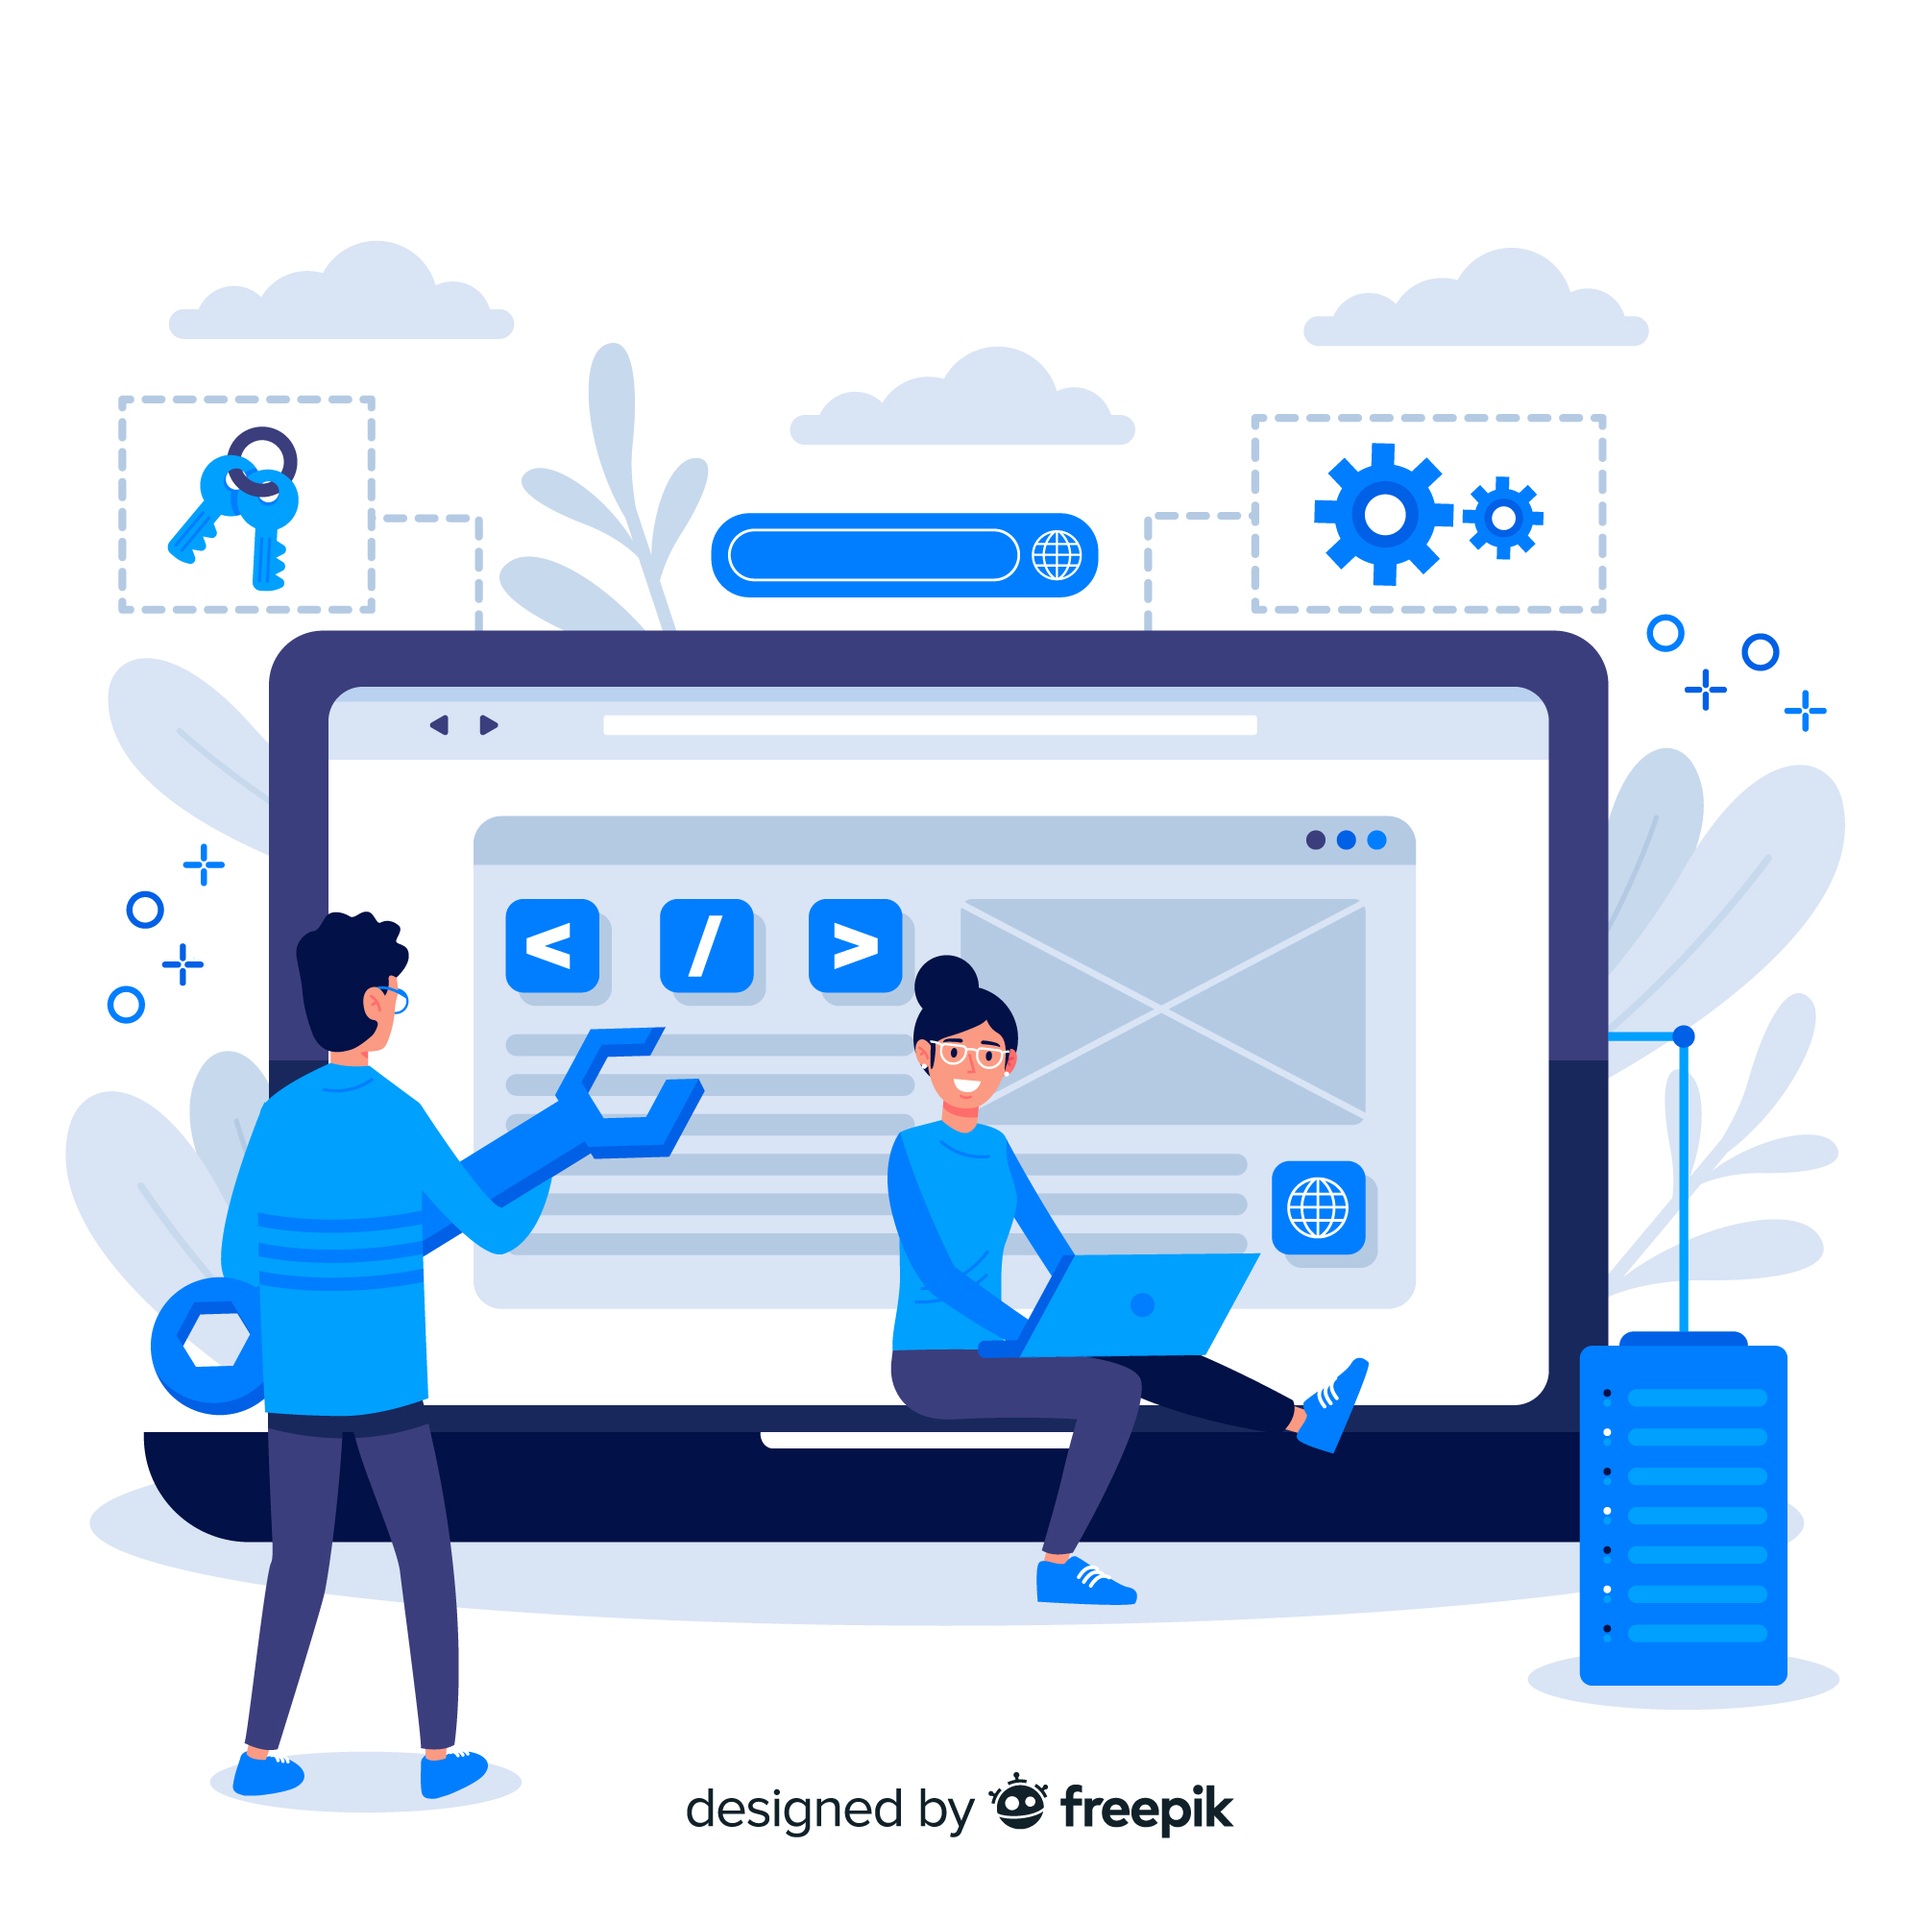
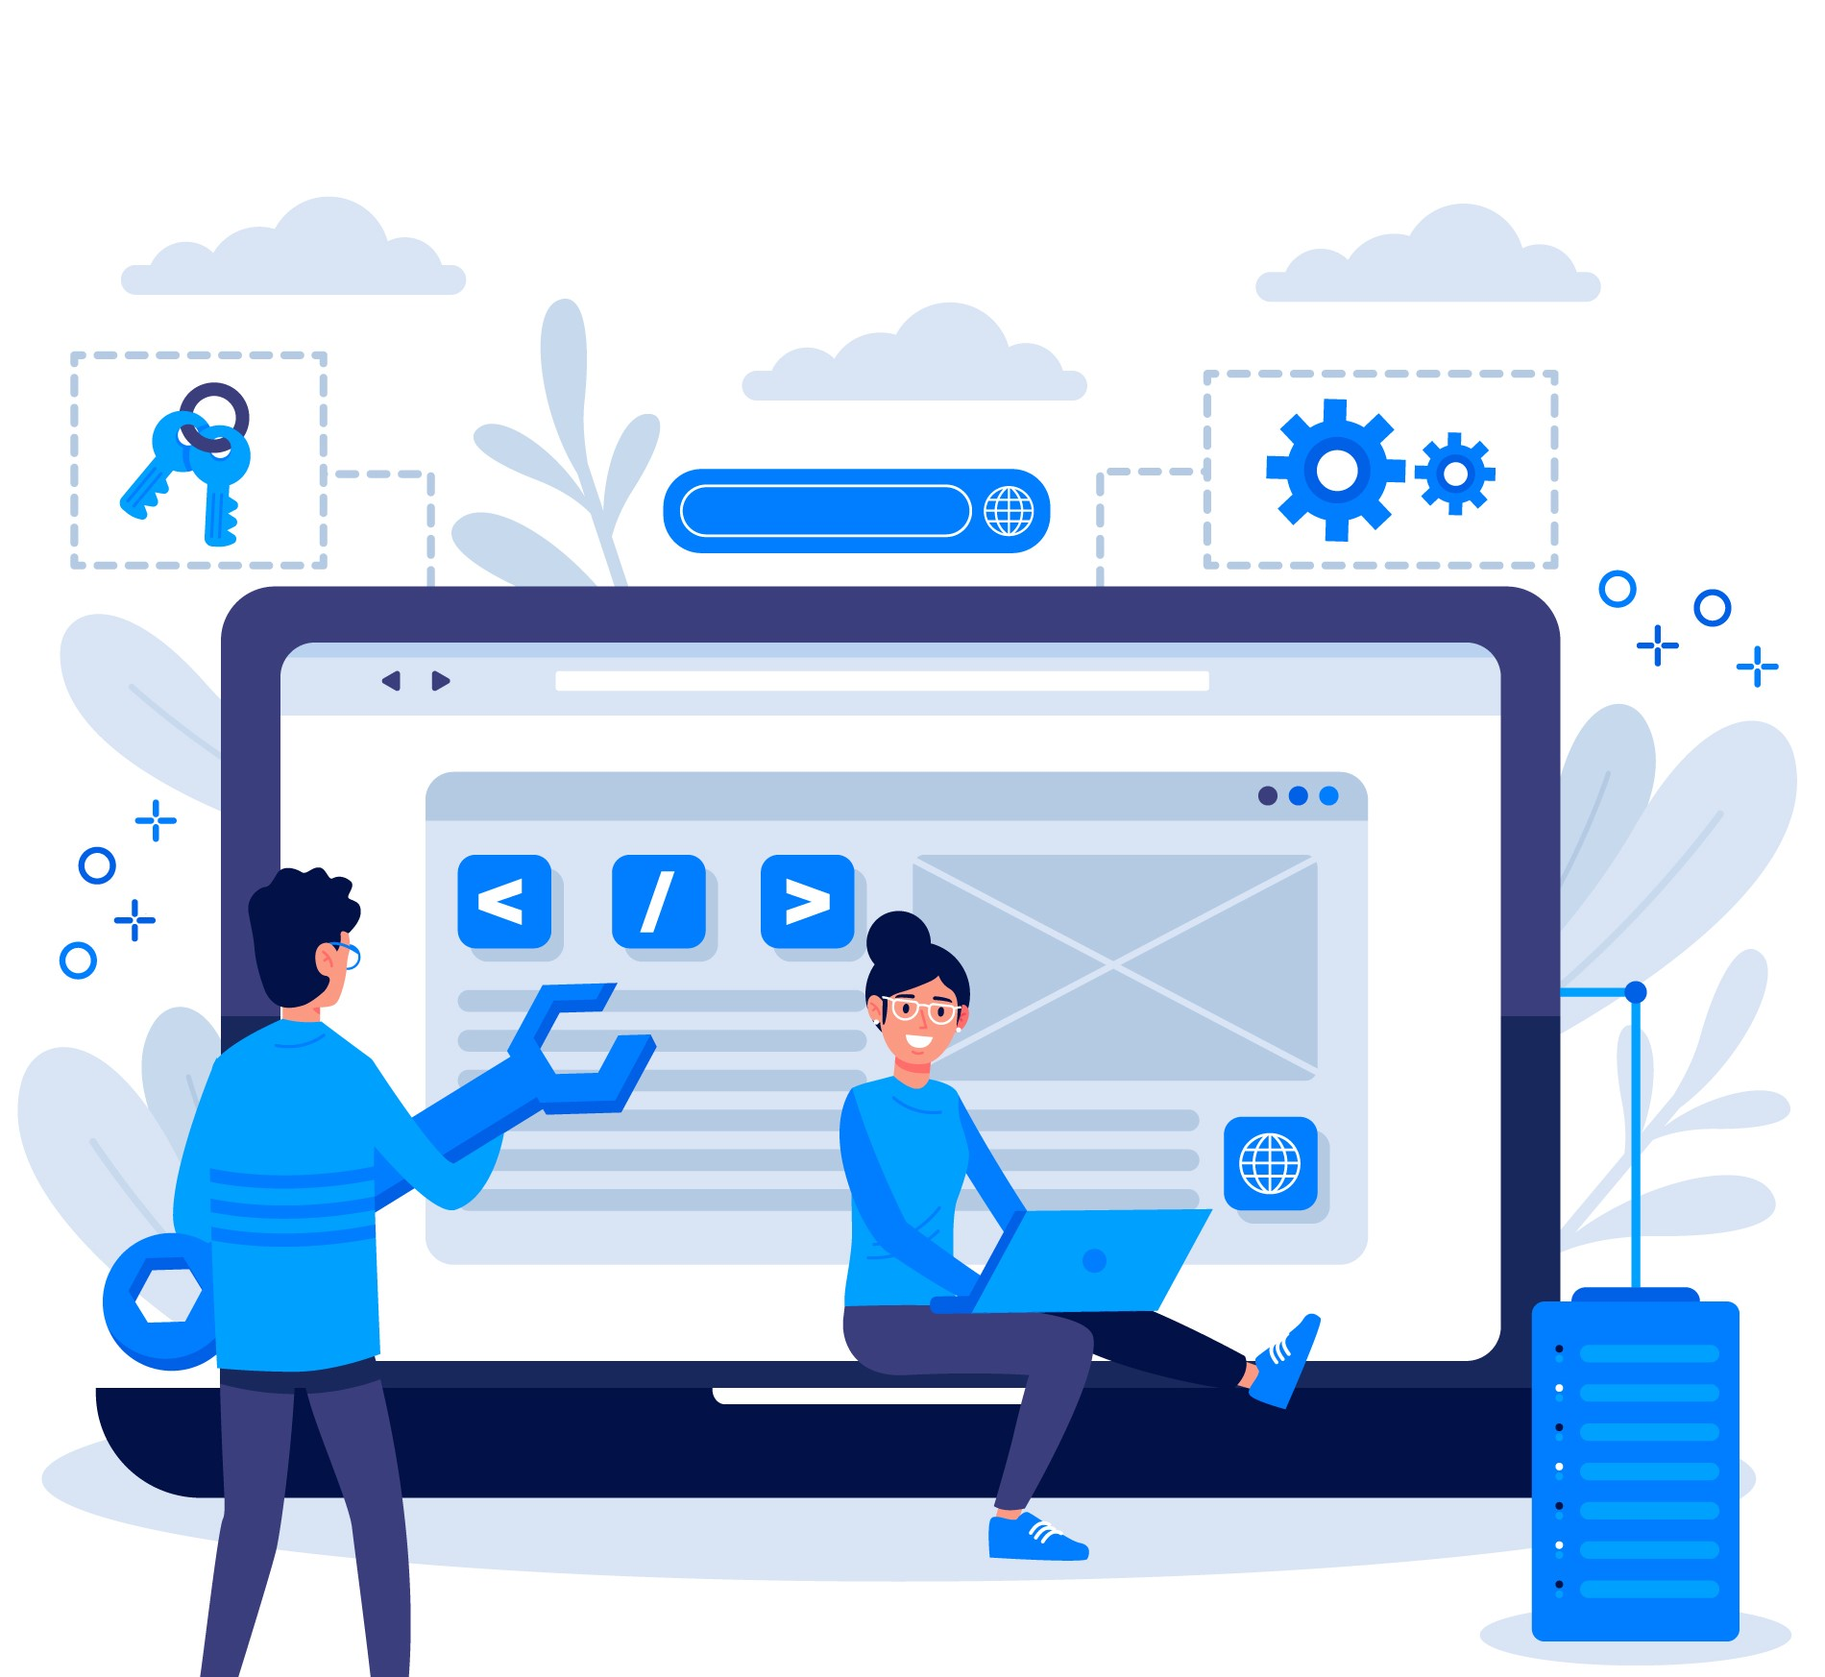
About Us Section

diff --git a/index.html b/index.html
@@ -51,9 +51,9 @@
             <a href="#hero" class="navbar-link">Home</a>
           </li>
 
-          <!-- <li>
+          <li>
             <a href="#about" class="navbar-link">About Us</a>
-          </li> -->
+          </li>
 
           <li>
             <a href="#services" class="navbar-link">Services</a>
@@ -98,15 +98,11 @@
 
             <p class="hero-text">
               Unlock growth and productivity with our 
-              <span class="highlight highlight-web">web</span>, 
-              <span class="highlight highlight-app">app</span>, and 
-              <span class="highlight highlight-software">software tools</span> designed for impactful results.
+              <span class="highlight highlight-web">Web</span>, 
+              <span class="highlight highlight-app">App</span>, and 
+              <span class="highlight highlight-software">Software Tools</span> designed for impactful results.
           </p>
-          
-
-           
-
-            
+                            
           </div>
 
           <figure class="hero-banner">
@@ -115,22 +111,57 @@
 
         </div>
       </section>
+
+      
       <!-- 
-        - ABOUT
+        - About
       -->
 
-      <section class="about" id="services">
+      <section class="about" id="features">
+        <div class="container">
+          <div class="about-wrapper">
+
+            <figure class="about-banner ">
+              <img src="./assets/2885174.jpg" alt="illustration art">
+            </figure>
+
+            <div class="about-content">
+
+            
+
+              <h2 class="h2 services-title">About Us</h2>
+
+              <p class="services-text">
+                Bluvin Solutions is where technology meets creativity to drive impactful web experiences. As a forward-thinking web solutions company, we’re dedicated to delivering a diverse range of services and innovative products that empower our clients and their audiences.
+                Accuracy and quality are the hallmarks of our work.</p>
+                <p class="services-text">We don’t just build websites; we craft digital solutions that resonate. By embracing the latest techniques and exploring fresh ideas, we consistently push boundaries to meet the evolving needs of businesses in today’s digital world.
+                  At Bluvin Solutions, customer satisfaction isn’t just a goal—it’s our promise. Through thoughtful strategy and a commitment to excellence, we’re here to turn visions into reality, one solution at a time.</p>
+          
+              
+
+              
+
+            </div>
+
+          </div>
+        </section>
+
+      
+        <!-- Services -->
+
+
+      <section class="services" id="services">
         <div class="container">
 
-          <div class="about-content">
+          <div class="services-content">
 
-            <div class="about-icon">
+            <div class="services-icon">
               <ion-icon name="cube"></ion-icon>
             </div>
 
-            <h2 class="h2 about-title">Services we provide</h2>
+            <h2 class="h2 services-title">Services we provide</h2>
 
-            <p class="about-text">
+            <p class="services-text">
               We're dedicated to transforming ideas into impactful digital experiences. With expertise in web and app development, innovative software tools, and thoughtful design, we empower businesses to grow fast-evolving digital landscape. Let us help turn your vision into tailored solutions for a successful tomorrow.
 
             </p>
@@ -139,10 +170,10 @@
 
           </div>
 
-          <ul class="about-list">
+          <ul class="services-list">
 
             <li>
-              <div class="about-card">
+              <div class="services-card">
 
                 <div class="card-icon">
                   <ion-icon name="thumbs-up"></ion-icon>
@@ -157,7 +188,7 @@
             </li>
 
             <li>
-              <div class="about-card">
+              <div class="services-card">
 
                 <div class="card-icon">
                   <ion-icon name="trending-up"></ion-icon>
@@ -172,7 +203,7 @@
             </li>
 
             <li>
-              <div class="about-card">
+              <div class="services-card">
 
                 <div class="card-icon">
                   <ion-icon name="shield-checkmark"></ion-icon>
@@ -187,7 +218,7 @@
             </li>
 
             <li>
-              <div class="about-card">
+              <div class="services-card">
 
                 <div class="card-icon">
                   <ion-icon name="server"></ion-icon>
@@ -207,11 +238,8 @@
       </section>
 
 
-
-
-
       <!-- 
-        - FEATURES
+        - WORK
       -->
 
       <section class="features" id="work">
@@ -225,8 +253,8 @@
 
           <div class="features-wrapper">
 
-            <figure class="features-banner">
-              <img src="./assets/5187559.jpg" alt="illustration art">
+            <figure class="features-banner translate-effect">
+              <img src="./assets/freepik__retouch__34238.png" alt="illustration art">
             </figure>
 
             <div class="features-content">
@@ -388,10 +416,6 @@
     </div>
   </footer>
   
-
-
-
-
   <!-- 
     - custom js link
   -->
